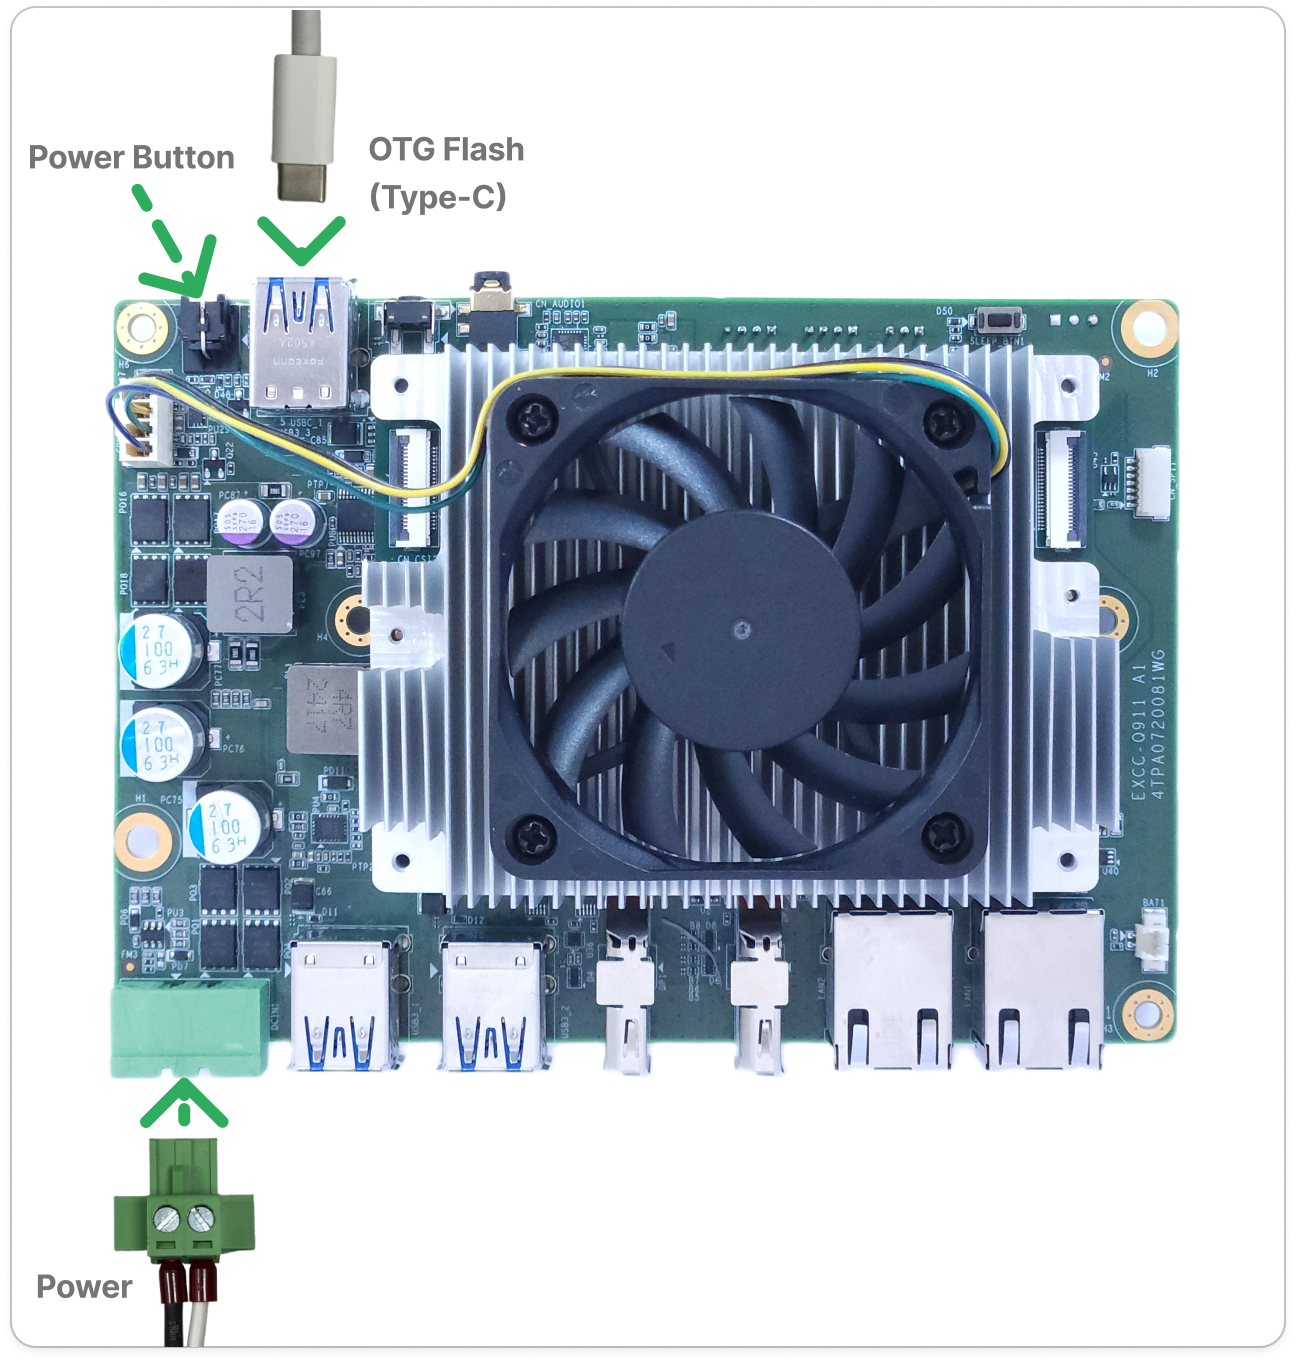
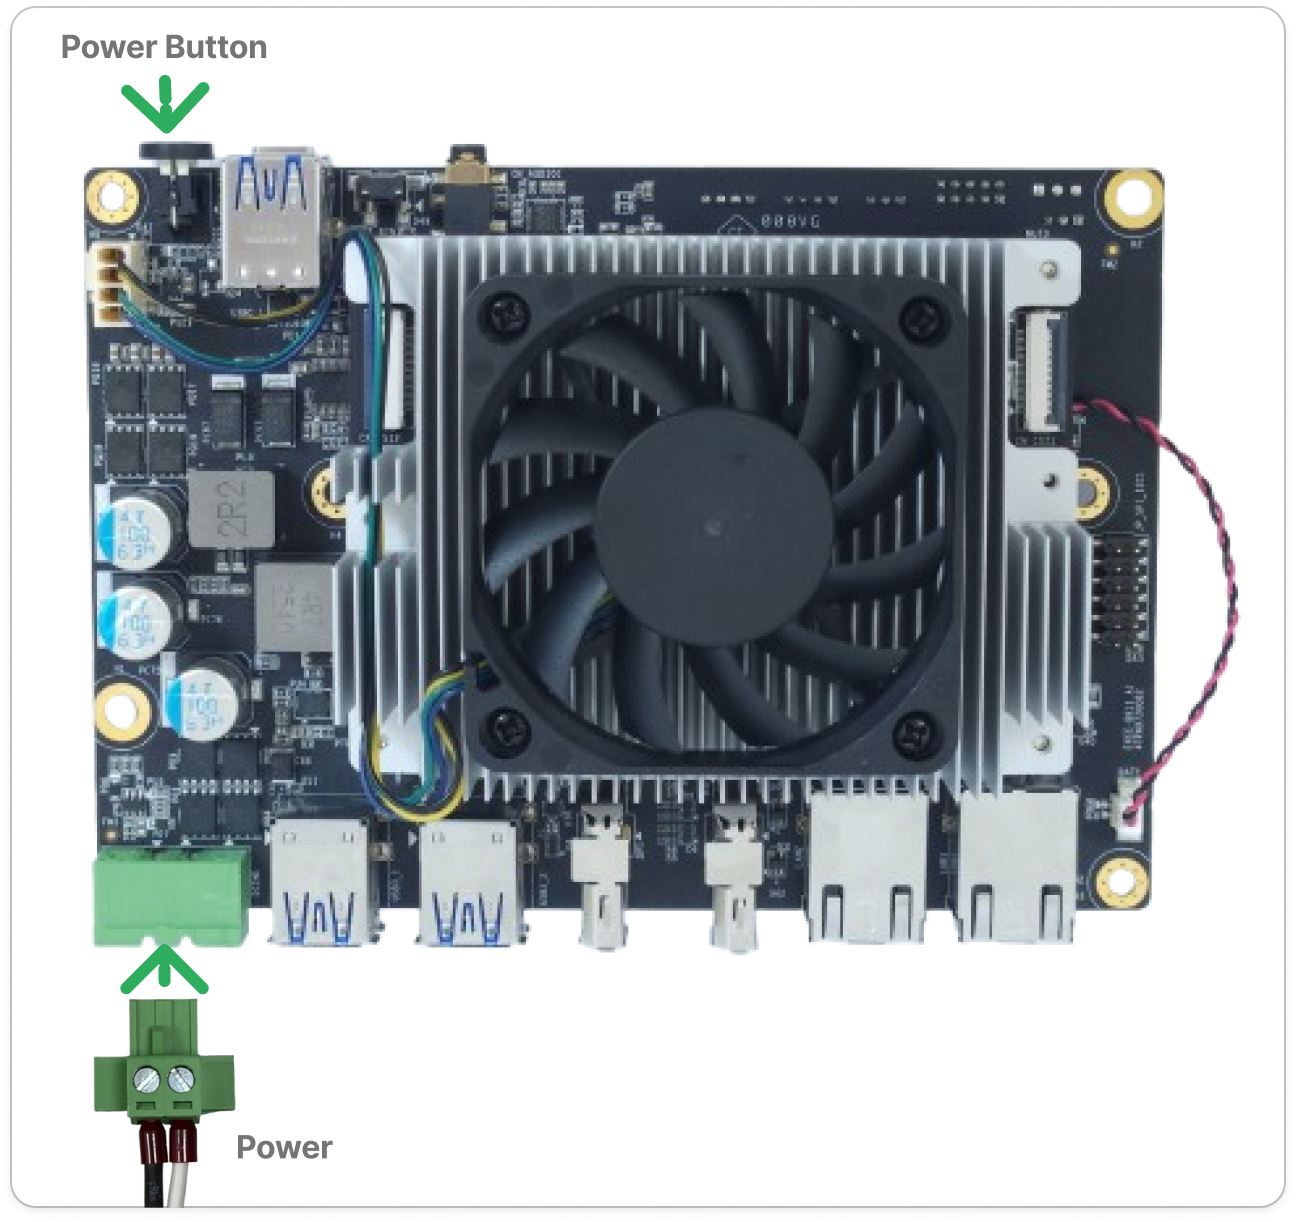
docs: refresh EXEC-Q911 DVT images and boot mode guidance

diff --git a/tutorials/starting-guides/q911/README.md b/tutorials/starting-guides/q911/README.md
@@ -74,11 +74,30 @@ Please follow the steps below to boot the system.
 1. Please ensure that the jumper on the bottom side of the board is set to `Normal mode`.
 `EDL mode` should be used when flashing the system image.
 
+  <div align="center">
+    <table>
+      <tr>
+        <td align="center" width="50%" valign="bottom">
+          <img src="./fig/jumper_mode_normal.png" style="max-height: 100%; max-width: 100%;">
+        </td>
+        <td align="center" width="50%" valign="bottom">
+          <img src="./fig/jumper_mode_edl.png" style="max-height: 100%; max-width: 100%;">
+        </td>
+      </tr>
+      <tr>
+        <td align="center">Normal mode</td>
+        <td align="center">EDL mode</td>
+      </tr>
+    </table>
+  </div>
+
+2. Please ensure that all boot mode DIP switches are set to `ON`, so the system boots from `UFS`.
+
    <p align="center">
-    <img src="./fig/jumper_mode.png" style="width:50%;">
+    <img src="./fig/boot_mode_ufs.png" style="width:50%;">
   </p>
 
-2. Connect the power supply and press the power button to boot the system.
+3. Connect the power supply and press the power button to boot the system.
 
 
   <div align="center">

diff --git a/tutorials/starting-guides/flash-image/README.md b/tutorials/starting-guides/flash-image/README.md
@@ -16,8 +16,8 @@ Please follow Steps 1–2 in [Flash Dragonwing IQ-9075 EVK Integrated Image on a
 
 After completing the required preparations, please ensure that the jumper on the bottom side of the board is set to `EDL mode`.
 
-   <p align="center">
-    <img src="../q911/fig/jumper_mode.png" style="width:50%;">
+  <p align="center">
+    <img src="../q911/fig/jumper_mode_edl.png" style="width:50%;">
   </p>
 
 
@@ -81,8 +81,14 @@ If the flashing process completes successfully, you will see output similar to t
 
 Please ensure that the jumper on the bottom side of the board is set to `Normal mode`.
 
-   <p align="center">
-    <img src="../q911/fig/jumper_mode.png" style="width:50%;">
+  <p align="center">
+    <img src="../q911/fig/jumper_mode_normal.png" style="width:50%;">
+  </p>
+
+Please also ensure that all boot mode DIP switches are set to `ON`, so the system boots from `UFS`.
+
+  <p align="center">
+    <img src="../q911/fig/boot_mode_ufs.png" style="width:50%;">
   </p>
 
 ## Step 6: Boot into the System
